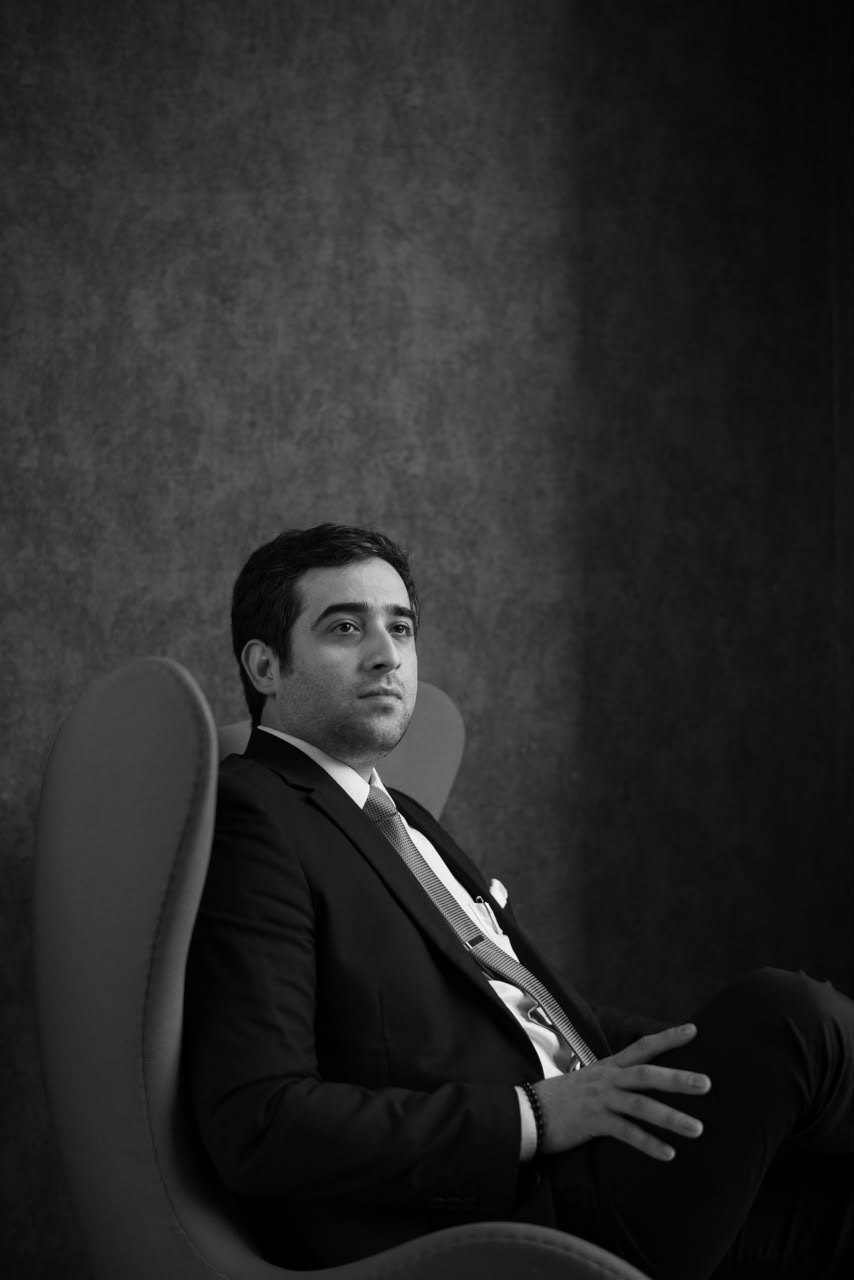
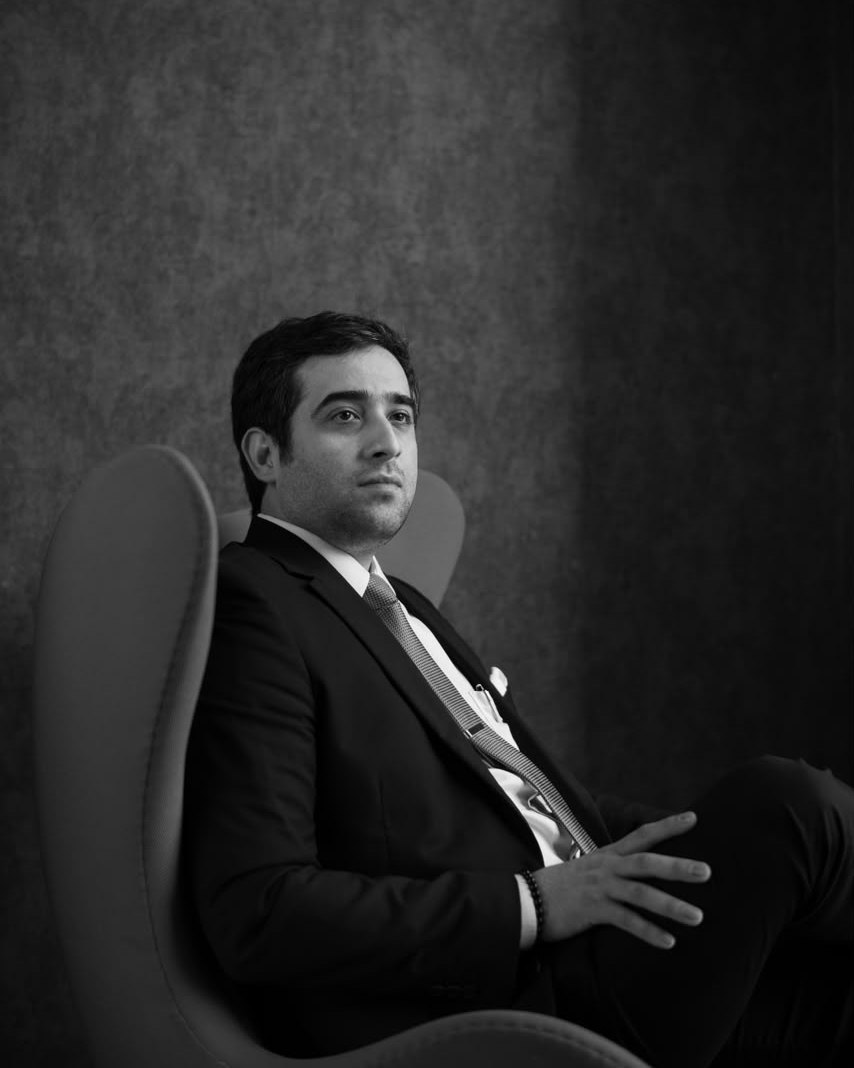
Perfil: recorta la fotografía a formato 4:5
Claude-Session: https://claude.ai/code/session_01HcMY4xu5iGsoqNNm5Mavnp

diff --git a/css/estilos.css b/css/estilos.css
@@ -115,7 +115,7 @@ p + p { margin-top: 14px; }
 /* 2 · Perfil */
 .perfil-rejilla { display: grid; grid-template-columns: minmax(260px, 5fr) 7fr; gap: clamp(36px, 6vw, 88px); align-items: start; }
 .perfil-foto { position: sticky; top: calc(var(--nav-h) + 24px); }
-.perfil-foto img, .perfil-foto .monograma { width: 100%; aspect-ratio: 2 / 3; object-fit: cover; background: var(--piedra); border-bottom: 5px solid var(--rojo); }
+.perfil-foto img, .perfil-foto .monograma { width: 100%; aspect-ratio: 4 / 5; object-fit: cover; background: var(--piedra); border-bottom: 5px solid var(--rojo); }
 .monograma { display: grid; place-items: center; font-weight: 900; font-size: clamp(64px, 9vw, 120px); letter-spacing: -0.05em; color: var(--rojo); background: linear-gradient(160deg, var(--piedra), #DDE1E5) !important; }
 .perfil-foto figcaption { margin-top: 16px; font-weight: 700; font-size: 15px; color: var(--grafito); line-height: 1.4; }
 .perfil-foto figcaption span { font-weight: 500; color: var(--acero); }

diff --git a/index.html b/index.html
@@ -100,7 +100,7 @@
 <section class="sec perfil" id="perfil">
   <div class="envoltura perfil-rejilla">
     <figure class="perfil-foto">
-      <img src="assets/img/pedro-perfil.jpg" alt="Lic. Pedro Fernando Villarreal Rodríguez" width="854" height="1280" loading="lazy" data-respaldo="monograma">
+      <img src="assets/img/pedro-perfil.jpg?v=2" alt="Lic. Pedro Fernando Villarreal Rodríguez" width="854" height="1068" loading="lazy" data-respaldo="monograma">
       <figcaption>Lic. Pedro Fernando Villarreal Rodríguez<br><span>Abogado corporativo y litigante</span></figcaption>
     </figure>
     <div class="perfil-texto">
